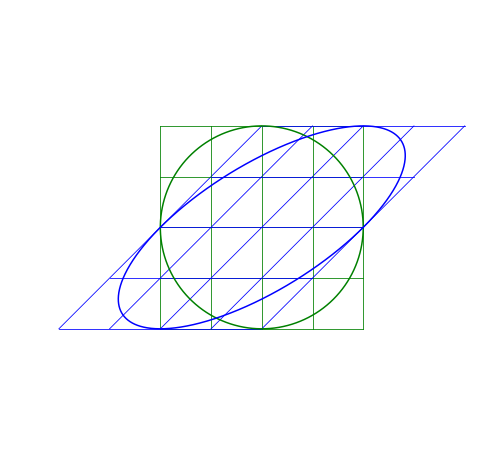
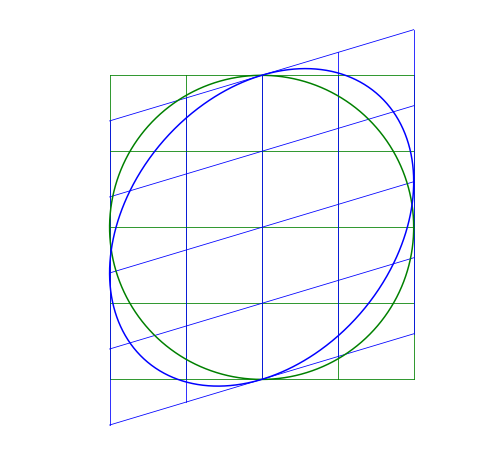
Updates made

diff --git a/_posts/2017-08-14-visualizing-matrix-transforms.md b/_posts/2017-08-14-visualizing-matrix-transforms.md
@@ -89,4 +89,13 @@ The larger the $$\lambda$$, the greater the shear.
 </p>
 
 
+## Skew Matrix
+
+A skew matrix will not rotate the data, but will shear the axis the same angle in opposite directions.  
+
+
+
+It is the same as a scaling matrix where the scaling 
+
+
 
